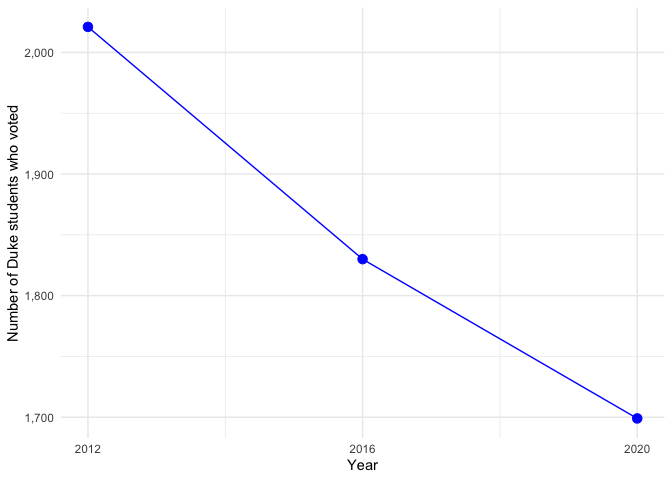
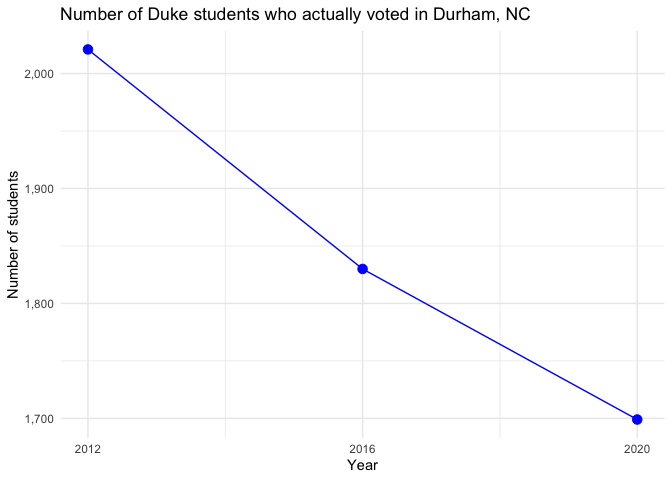
Cleaned up plots and text

diff --git a/README.md b/README.md
@@ -47,88 +47,72 @@ have decided to vote in their home county or state. After classifying
 who the Duke students were (within our methodology), we were ready to
 begin our analysis.
 
-``` r
-election_year <- full_data %>%
-  filter(
-    str_detect(election_desc, "GENERAL"),
-    voted_year %in% c(2004, 2008, 2012, 2016, 2020)
-    ) %>%
-  select(voter_reg_num, voted_year) %>%
-  distinct() %>%
-  count(voted_year)
-  
-
-election_yr_reg <- duke_students %>%
-  mutate(cancel_yr = lubridate::year(cancellation_dt)) %>%
-  mutate(
-    cancel_yr = ifelse(cancel_yr == 1900, 2023, cancel_yr)
-  ) %>%
-  transmute(voter_reg_num, year = map2(registr_yr, cancel_yr, seq, by = 1)) %>%
-  unnest(cols = c(year)) %>%
-  filter(year %in% c(2004, 2008, 2012, 2016, 2020)) %>%
-  select(voter_reg_num, year) %>%
-  distinct() %>%
-  count(year)
-
-newly_reg <- duke_students %>%
-  filter(registr_yr %in% c(2004, 2008, 2012, 2016, 2020)) %>%
-  select(voter_reg_num, registr_yr) %>%
-  distinct() %>%
-  count(registr_yr)
-```
-
 ### Analysis
 
-First we look into how many duke students actively registered to vote
-during presidential election years.
+We were interested in voter registration numbers over time.
 
-![](README_files/figure-gfm/reg-active-1.png)<!-- -->
+First, we looked into how many Duke students actively registered to vote
+during the presidential election years. Interestingly, it seems Duke
+students were the most motivated to register to vote in the 2012
+election. It would be interesting to investigate further whether this is
+true- and dig into why, or if this can be attributed to the methodology
+we used to classify Duke students in 2012.
 
-Interestingly, it seems as if Duke students were the most motivated to
-registered to vote in the 2012 election. It would be interesting to
-investigate further whether this is actually true- and dig into why, or
-if this can be attributed to the methodology capturing the most duke
-students during 2012.
-
-Next we looked at how many Duke students were registered to vote-
+Next, we looked at how many Duke students were registered to vote-
 whether that be because they actively registered or because a previous
-voter registration carried over.
+voter registration carried over. This value increased steadily over
+time, likely due to students forgetting to cancel their registration
+despite moving out of the county/state.
 
-![](README_files/figure-gfm/reg-election-1.png)<!-- -->
+![](README_files/figure-gfm/plots-together-1.png)<!-- -->
 
-Next we looked at Duke students who actually voted in presidential
-election years.
+We also looked at Duke students who voted in presidential election
+years. Voting numbers appeared to decrease from 2012 to 2020.
 
 ![](README_files/figure-gfm/voted-election-1.png)<!-- -->
 
-Here we compared our three data sets:
-
 ![](README_files/figure-gfm/both-election-1.png)<!-- -->
 
-Interestingly, while the number of Duke students who were registered to
-vote in Durham, NC increased each election year, it seems the number of
-those who were actively registering or voting decreased.
+We also graphed the proportion of registered Duke students who voted in
+Durham, NC. Likewise, the number of those who took advantage of their
+voter registration status and voted decreased from 2012 to 2020.
+
+![](README_files/figure-gfm/prop-plot-1.png)<!-- -->
+
+### Conclusion:
+
+Based on our analysis from 2012 to 2020, Duke students are both
+registering to vote and voting less in presidential elections in Durham
+county, NC. Perhaps they are less motivated by the candidate or have
+less access to the polls. Alternatively, it is also possible that over
+time, more Duke students are choosing to vote in their home state/county
+rather than using their Duke residence. This might be because they feel
+they will have more of an impact in other states or because they don’t
+want to change their registration.
 
 ### Next Steps:
 
 Regardless, with midterm elections coming up it is important for all the
 Duke students who are interested, to feel comfortable and empowered to
-register and then vote.
+register and then vote. Duke provides resources for students and faculty
+through the site [Duke Votes](https://vote.duke.edu/). According to
+their homepage, those who have questions can contact Duke Votes chair,
+Daisy Lane, at <margarita.lane@duke.edu>. They provide several
+[resources](https://vote.duke.edu/resources/) for those looking to get
+involved and/or register to vote.
 
-  - People to contact
-
-  - duke orgs for voting/ registering on campus
-
-  - final thoughts / conclusions
+If we had more time, we would like to further hone our methodology for
+determining who is a Duke student and investigate what caused the surge
+in registrations and voting in 2012.
 
 ### Further analysis
 
-We also looked some into our secondary question of how Duke student’s
-poltical party affiliations changed over time.
+We also looked into our secondary question of how Duke students’
+political party affiliations changed over time.
 
 ![](README_files/figure-gfm/party-time-election-reg-1.png)<!-- -->
 
-It seems that the number of Duke students registered as Democrat
+It seems that the number of Duke students registered as Democrats
 increased over time and the number of Duke students registered as
 unaffiliated decreased.
 
@@ -137,4 +121,5 @@ The same pattern can be seen in this filled bar chart.
 ![](README_files/figure-gfm/party-split-reg-1.png)<!-- -->
 
 Additionally we looked at voting method over time:
+
 ![](README_files/figure-gfm/vote-method-1.png)<!-- -->
